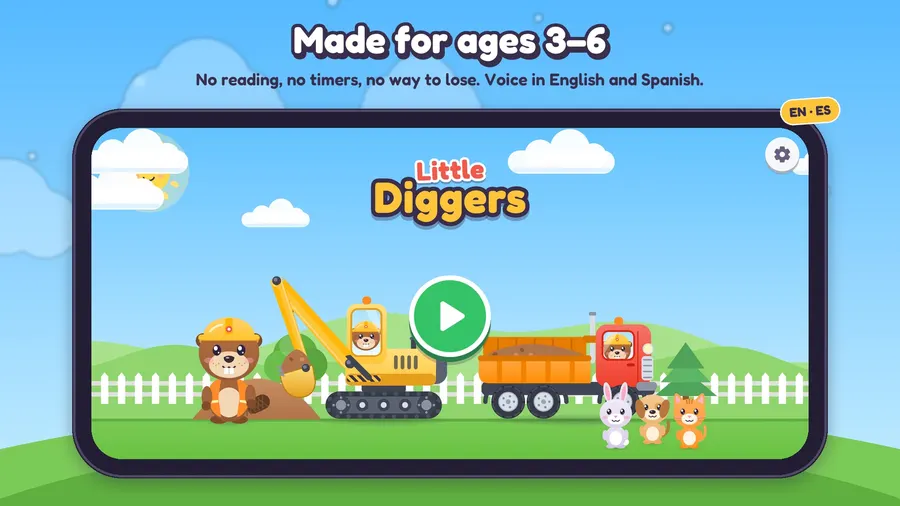
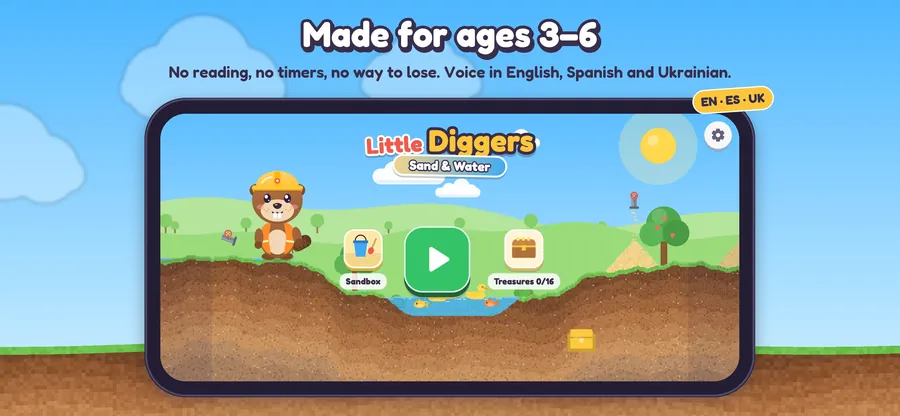
Little Diggers 2.0 (Sand & Water): privacy policy and Kido card
Policy (EN/ES/UK): new name, progress is finished levels, treasures and saved
sandboxes, "Start over" reset, ads on the menu and map and after some finished
levels. Kido page: new title, description, tags, icon and the 2.0 screenshots.

diff --git a/policies/kido-games/little-diggers/index.html b/policies/kido-games/little-diggers/index.html
@@ -3,8 +3,8 @@
 <head>
 <meta charset="utf-8">
 <meta name="viewport" content="width=device-width, initial-scale=1">
-<title>Little Diggers – Privacy Policy</title>
-<meta name="description" content="Privacy policy for Little Diggers, a construction building game for young children.">
+<title>Little Diggers: Sand &amp; Water – Privacy Policy</title>
+<meta name="description" content="Privacy policy for Little Diggers: Sand &amp; Water, a sand and water physics game for young children.">
 <meta name="robots" content="index, follow">
 <link rel="canonical" href="https://www.denxiik.com/policies/kido-games/little-diggers/" />
 <link rel="icon" href="../../../img/logo.webp">
@@ -37,19 +37,19 @@
   <nav><a href="#en">English</a><a href="#es">Español</a><a href="#uk">Українська</a></nav>
 
   <section id="en">
-    <h1>Little Diggers – Privacy Policy</h1>
-    <p class="muted">Last updated: September 28, 2026</p>
+    <h1>Little Diggers: Sand &amp; Water – Privacy Policy</h1>
+    <p class="muted">Last updated: October 21, 2026</p>
     <p>Little Diggers is a game for young children (ages 3–6). We designed it to collect as little as possible. This policy explains what happens to data when your child plays.</p>
 
     <h2>Information we collect</h2>
     <p>We do not collect any personal information. The game has no accounts, no sign-in, no chat, no photos or camera, no microphone recording and no contact with other players. We do not run our own servers or analytics.</p>
-    <p>Game progress (the houses your child built) and settings (language, sound, voice) are stored only on the device and are deleted when you uninstall the app or use "Start the town over" in the parent settings.</p>
+    <p>Game progress (finished levels, treasures found and your child's saved sandboxes) and settings (language, sound, voice) are stored only on the device and are deleted when you uninstall the app or use "Start over" in the parent settings.</p>
 
     <h2>Voice</h2>
     <p>Instructions are read aloud by the text-to-speech voice that is built into your device. No voice data is recorded or sent to us.</p>
 
     <h2>Advertising</h2>
-    <p>The game is free and shows a small number of ads provided by Google AdMob, only on menu screens and between houses, never during play. Every ad request is marked as directed to children (COPPA and Google Play Families Policy) and limited to content rated for general audiences (G). Ads are non-personalized: they are not based on your child's interests or behavior, and the app does not access the device advertising identifier (IDFA / Android advertising ID) or track users across apps.</p>
+    <p>The game is free and shows a small number of ads provided by Google AdMob, only on the menu and map screens and after some finished levels, never during play. Every ad request is marked as directed to children (COPPA and Google Play Families Policy) and limited to content rated for general audiences (G). Ads are non-personalized: they are not based on your child's interests or behavior, and the app does not access the device advertising identifier (IDFA / Android advertising ID) or track users across apps.</p>
     <p>To show and measure ads, Google's SDK may process limited technical information such as IP address (for approximate location), device type, operating system and app interactions with the ad. Google handles this information under its own policies for child-directed requests: <a href="https://policies.google.com/technologies/ads">policies.google.com/technologies/ads</a>.</p>
 
     <h2>In-app purchases and links</h2>
@@ -66,19 +66,19 @@
   </section>
 
   <section id="es" lang="es">
-    <h1>Little Diggers – Política de privacidad</h1>
-    <p class="muted">Última actualización: 28 de septiembre de 2026</p>
+    <h1>Little Diggers: Arena y agua – Política de privacidad</h1>
+    <p class="muted">Última actualización: 21 de octubre de 2026</p>
     <p>Little Diggers es un juego para niños pequeños (de 3 a 6 años). Lo diseñamos para recoger lo mínimo posible. Esta política explica qué pasa con los datos mientras tu peque juega.</p>
 
     <h2>Información que recogemos</h2>
     <p>No recogemos ninguna información personal. El juego no tiene cuentas, ni inicio de sesión, ni chat, ni fotos o cámara, ni grabación de micrófono, ni contacto con otros jugadores. No usamos servidores propios ni herramientas de analítica.</p>
-    <p>El progreso del juego (las casas construidas) y los ajustes (idioma, sonido, voz) se guardan solo en el dispositivo y se borran al desinstalar la app o al usar "Empezar el pueblo de nuevo" en los ajustes para padres.</p>
+    <p>El progreso del juego (niveles terminados, tesoros encontrados y los areneros guardados) y los ajustes (idioma, sonido, voz) se guardan solo en el dispositivo y se borran al desinstalar la app o al usar "Empezar de cero" en los ajustes para padres.</p>
 
     <h2>Voz</h2>
     <p>Las instrucciones las lee en voz alta la voz de texto a voz integrada en tu dispositivo. No se graba ni se nos envía ningún dato de voz.</p>
 
     <h2>Publicidad</h2>
-    <p>El juego es gratis y muestra pocos anuncios de Google AdMob, solo en los menús y entre casa y casa, nunca durante el juego. Cada solicitud de anuncio se marca como dirigida a niños (COPPA y Política de Familias de Google Play) y se limita a contenido apto para todos los públicos (G). Los anuncios no son personalizados: no se basan en los intereses ni en el comportamiento de tu peque, y la app no accede al identificador publicitario del dispositivo (IDFA / ID de publicidad de Android) ni sigue a los usuarios entre apps.</p>
+    <p>El juego es gratis y muestra pocos anuncios de Google AdMob, solo en el menú y el mapa y tras algunos niveles terminados, nunca durante el juego. Cada solicitud de anuncio se marca como dirigida a niños (COPPA y Política de Familias de Google Play) y se limita a contenido apto para todos los públicos (G). Los anuncios no son personalizados: no se basan en los intereses ni en el comportamiento de tu peque, y la app no accede al identificador publicitario del dispositivo (IDFA / ID de publicidad de Android) ni sigue a los usuarios entre apps.</p>
     <p>Para mostrar y medir los anuncios, el SDK de Google puede procesar información técnica limitada, como la dirección IP (para una ubicación aproximada), el tipo de dispositivo, el sistema operativo y las interacciones con el anuncio. Google trata esta información según sus propias políticas para solicitudes dirigidas a niños: <a href="https://policies.google.com/technologies/ads?hl=es">policies.google.com/technologies/ads</a>.</p>
 
     <h2>Compras y enlaces</h2>
@@ -95,19 +95,19 @@
   </section>
 
   <section id="uk" lang="uk">
-    <h1>Little Diggers – Політика конфіденційності</h1>
-    <p class="muted">Останнє оновлення: 28 вересня 2026 р.</p>
+    <h1>Little Diggers: Пісок і вода – Політика конфіденційності</h1>
+    <p class="muted">Останнє оновлення: 21 жовтня 2026 р.</p>
     <p>Little Diggers — це гра для малят (3–6 років). Ми створили її так, щоб вона збирала якомога менше. Ця політика пояснює, що відбувається з даними, коли грає ваша дитина.</p>
 
     <h2>Яку інформацію ми збираємо</h2>
     <p>Ми не збираємо жодної персональної інформації. У грі немає облікових записів, входу, чату, фото чи камери, запису з мікрофона й контакту з іншими гравцями. Ми не використовуємо власних серверів чи аналітики.</p>
-    <p>Прогрес у грі (будинки, які збудувала дитина) та налаштування (мова, звук, голос) зберігаються лише на пристрої та видаляються, коли ви видаляєте застосунок або обираєте в батьківських налаштуваннях «Почати містечко спочатку».</p>
+    <p>Прогрес у грі (пройдені рівні, знайдені скарби й збережені пісочниці дитини) та налаштування (мова, звук, голос) зберігаються лише на пристрої та видаляються, коли ви видаляєте застосунок або обираєте в батьківських налаштуваннях «Почати спочатку».</p>
 
     <h2>Голос</h2>
     <p>Інструкції озвучує вбудований у ваш пристрій голос синтезу мовлення. Голосові дані не записуються і не надсилаються нам.</p>
 
     <h2>Реклама</h2>
-    <p>Гра безкоштовна й показує невелику кількість реклами від Google AdMob, лише на екранах меню та між будинками, ніколи під час гри. Кожен запит реклами позначається як спрямований на дітей (COPPA та Політика Google Play для сімей) і обмежується контентом із рейтингом для всіх вікових груп (G). Реклама неперсоналізована: вона не ґрунтується на інтересах чи поведінці вашої дитини, а застосунок не звертається до рекламного ідентифікатора пристрою (IDFA / рекламний ID Android) і не відстежує користувачів між застосунками.</p>
+    <p>Гра безкоштовна й показує невелику кількість реклами від Google AdMob, лише в меню, на мапі та після деяких пройдених рівнів, ніколи під час гри. Кожен запит реклами позначається як спрямований на дітей (COPPA та Політика Google Play для сімей) і обмежується контентом із рейтингом для всіх вікових груп (G). Реклама неперсоналізована: вона не ґрунтується на інтересах чи поведінці вашої дитини, а застосунок не звертається до рекламного ідентифікатора пристрою (IDFA / рекламний ID Android) і не відстежує користувачів між застосунками.</p>
     <p>Щоб показувати рекламу та вимірювати її ефективність, SDK від Google може обробляти обмежену технічну інформацію, як-от IP-адресу (для визначення приблизного місцезнаходження), тип пристрою, операційну систему та взаємодію із рекламою в застосунку. Google обробляє цю інформацію відповідно до власних правил для запитів, спрямованих на дітей: <a href="https://policies.google.com/technologies/ads">policies.google.com/technologies/ads</a>.</p>
 
     <h2>Покупки в застосунку та посилання</h2>

diff --git a/ukr/kido/index.html b/ukr/kido/index.html
@@ -123,14 +123,14 @@
                 <div class="kido-card-shots"><img src="../../img/kido/shots/little-diggers-uk-1.webp" alt="скриншот Little Diggers" loading="lazy"><img src="../../img/kido/shots/little-diggers-uk-2.webp" alt="скриншот Little Diggers" loading="lazy"><img src="../../img/kido/shots/little-diggers-uk-3.webp" alt="скриншот Little Diggers" loading="lazy"><img src="../../img/kido/shots/little-diggers-uk-4.webp" alt="скриншот Little Diggers" loading="lazy"><img src="../../img/kido/shots/little-diggers-uk-5.webp" alt="скриншот Little Diggers" loading="lazy"><img src="../../img/kido/shots/little-diggers-uk-6.webp" alt="скриншот Little Diggers" loading="lazy"><img src="../../img/kido/shots/little-diggers-uk-7.webp" alt="скриншот Little Diggers" loading="lazy"><img src="../../img/kido/shots/little-diggers-uk-8.webp" alt="скриншот Little Diggers" loading="lazy"></div>
                 <div class="kido-card-body">
                     <div class="game-head">
-                        <img class="game-icon" src="../../img/kido/icons/little-diggers.webp" alt="Little Diggers" width="88" height="88" loading="lazy">
+                        <img class="game-icon" src="../../img/kido/icons/little-diggers.webp" alt="Little Diggers: Пісок і вода" width="88" height="88" loading="lazy">
                         <div>
-                            <h3 class="game-title">Little Diggers</h3>
+                            <h3 class="game-title">Little Diggers: Пісок і вода</h3>
                             <span class="game-age">Вік 3–6</span>
                         </div>
                     </div>
-                    <p class="game-description">Шестеро друзів-тваринок потребують нового дому! Копай, їдь, будуй, фарбуй і мий разом із цілим парком машин, поки бобер Бо пояснює кожен крок.</p>
-                    <ul class="game-tags"><li>Лічба</li><li>Кольори</li><li>Фігури</li><li>Дрібна моторика</li></ul>
+                    <p class="game-description">Справжня пісочниця з піском і водою, де змодельована кожна піщинка й крапля. Прокопай канал до спраглих квітів, збудуй і випробуй дамбу, зроби так, щоб мокрий пісок тримав форму, розтопи сніг і перетвори лаву на камінь, а бобер Бо читає кожен крок уголос.</p>
+                    <ul class="game-tags"><li>Фізика</li><li>Вода</li><li>Будівництво</li><li>Розвʼязування задач</li></ul>
                     <div class="game-actions"><span class="store-button store-button--soon" aria-disabled="true">
                         <i class="fas fa-clock"></i> Незабаром
                     </span>

diff --git a/es/kido/index.html b/es/kido/index.html
@@ -123,14 +123,14 @@
                 <div class="kido-card-shots"><img src="../../img/kido/shots/little-diggers-es-1.webp" alt="captura de Little Diggers" loading="lazy"><img src="../../img/kido/shots/little-diggers-es-2.webp" alt="captura de Little Diggers" loading="lazy"><img src="../../img/kido/shots/little-diggers-es-3.webp" alt="captura de Little Diggers" loading="lazy"><img src="../../img/kido/shots/little-diggers-es-4.webp" alt="captura de Little Diggers" loading="lazy"><img src="../../img/kido/shots/little-diggers-es-5.webp" alt="captura de Little Diggers" loading="lazy"><img src="../../img/kido/shots/little-diggers-es-6.webp" alt="captura de Little Diggers" loading="lazy"><img src="../../img/kido/shots/little-diggers-es-7.webp" alt="captura de Little Diggers" loading="lazy"><img src="../../img/kido/shots/little-diggers-es-8.webp" alt="captura de Little Diggers" loading="lazy"></div>
                 <div class="kido-card-body">
                     <div class="game-head">
-                        <img class="game-icon" src="../../img/kido/icons/little-diggers.webp" alt="Little Diggers" width="88" height="88" loading="lazy">
+                        <img class="game-icon" src="../../img/kido/icons/little-diggers.webp" alt="Little Diggers: Arena y agua" width="88" height="88" loading="lazy">
                         <div>
-                            <h3 class="game-title">Little Diggers</h3>
+                            <h3 class="game-title">Little Diggers: Arena y agua</h3>
                             <span class="game-age">Edad 3–6</span>
                         </div>
                     </div>
-                    <p class="game-description">¡Seis amigos animales necesitan una casa nueva! Excava, conduce, construye, pinta y lava con un montón de máquinas mientras Bo el castor explica cada paso.</p>
-                    <ul class="game-tags"><li>Contar</li><li>Colores</li><li>Figuras</li><li>Motricidad fina</li></ul>
+                    <p class="game-description">Un arenero de arena y agua de verdad en el que cada grano y cada gota están simulados. Excava un canal hasta las flores sedientas, construye un dique y pruébalo, haz que la arena mojada se sostenga, derrite nieve y enfría lava hasta volverla roca mientras Bo el castor lee cada paso en voz alta.</p>
+                    <ul class="game-tags"><li>Física</li><li>Agua</li><li>Construir</li><li>Resolver problemas</li></ul>
                     <div class="game-actions"><span class="store-button store-button--soon" aria-disabled="true">
                         <i class="fas fa-clock"></i> Próximamente
                     </span>

diff --git a/en/kido/index.html b/en/kido/index.html
@@ -123,14 +123,14 @@
                 <div class="kido-card-shots"><img src="../../img/kido/shots/little-diggers-en-1.webp" alt="screenshot of Little Diggers" loading="lazy"><img src="../../img/kido/shots/little-diggers-en-2.webp" alt="screenshot of Little Diggers" loading="lazy"><img src="../../img/kido/shots/little-diggers-en-3.webp" alt="screenshot of Little Diggers" loading="lazy"><img src="../../img/kido/shots/little-diggers-en-4.webp" alt="screenshot of Little Diggers" loading="lazy"><img src="../../img/kido/shots/little-diggers-en-5.webp" alt="screenshot of Little Diggers" loading="lazy"><img src="../../img/kido/shots/little-diggers-en-6.webp" alt="screenshot of Little Diggers" loading="lazy"><img src="../../img/kido/shots/little-diggers-en-7.webp" alt="screenshot of Little Diggers" loading="lazy"><img src="../../img/kido/shots/little-diggers-en-8.webp" alt="screenshot of Little Diggers" loading="lazy"></div>
                 <div class="kido-card-body">
                     <div class="game-head">
-                        <img class="game-icon" src="../../img/kido/icons/little-diggers.webp" alt="Little Diggers" width="88" height="88" loading="lazy">
+                        <img class="game-icon" src="../../img/kido/icons/little-diggers.webp" alt="Little Diggers: Sand &amp; Water" width="88" height="88" loading="lazy">
                         <div>
-                            <h3 class="game-title">Little Diggers</h3>
+                            <h3 class="game-title">Little Diggers: Sand &amp; Water</h3>
                             <span class="game-age">Ages 3–6</span>
                         </div>
                     </div>
-                    <p class="game-description">Six animal friends need a new home! Dig, drive, build, paint and wash with a fleet of machines while Bo the beaver explains every step.</p>
-                    <ul class="game-tags"><li>Counting</li><li>Colors</li><li>Shapes</li><li>Fine motor</li></ul>
+                    <p class="game-description">A real sand and water sandbox where every grain and drop is simulated. Dig a channel to thirsty flowers, build a dam and test it, make wet sand stand up, melt snow and cool lava into rock while Bo the beaver reads every step aloud.</p>
+                    <ul class="game-tags"><li>Physics</li><li>Water</li><li>Building</li><li>Problem solving</li></ul>
                     <div class="game-actions"><span class="store-button store-button--soon" aria-disabled="true">
                         <i class="fas fa-clock"></i> Coming soon
                     </span>
